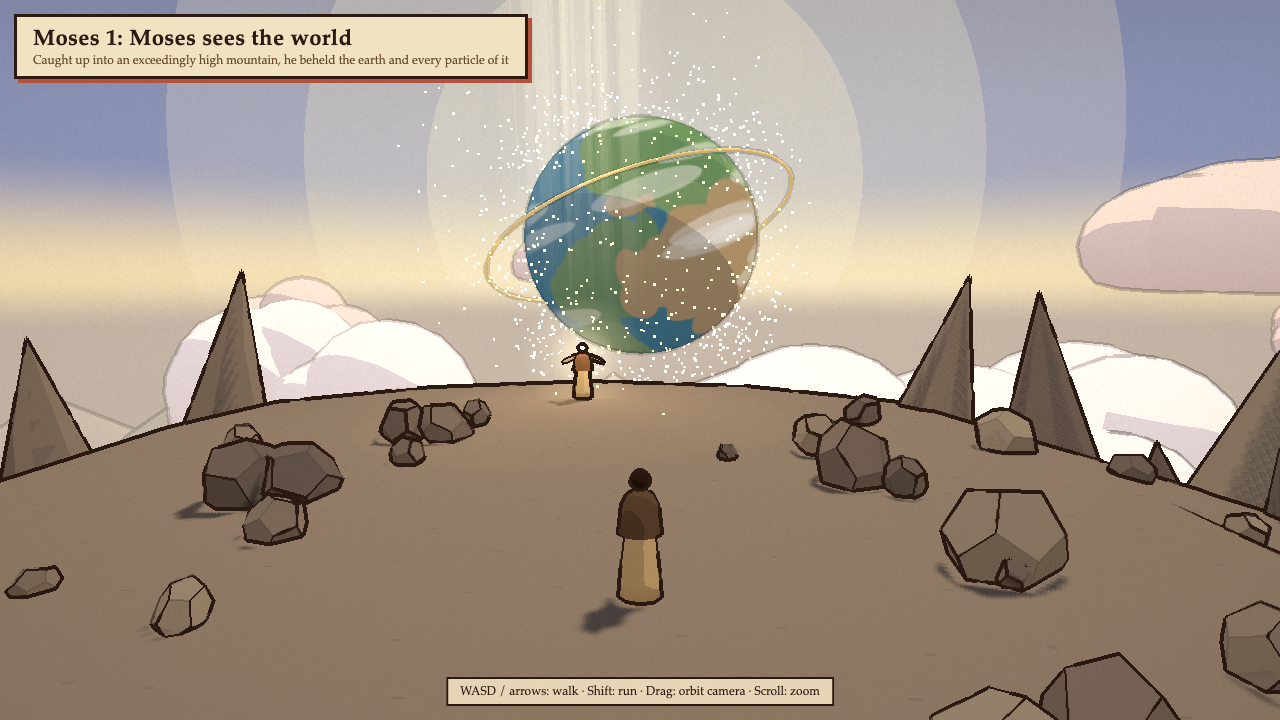
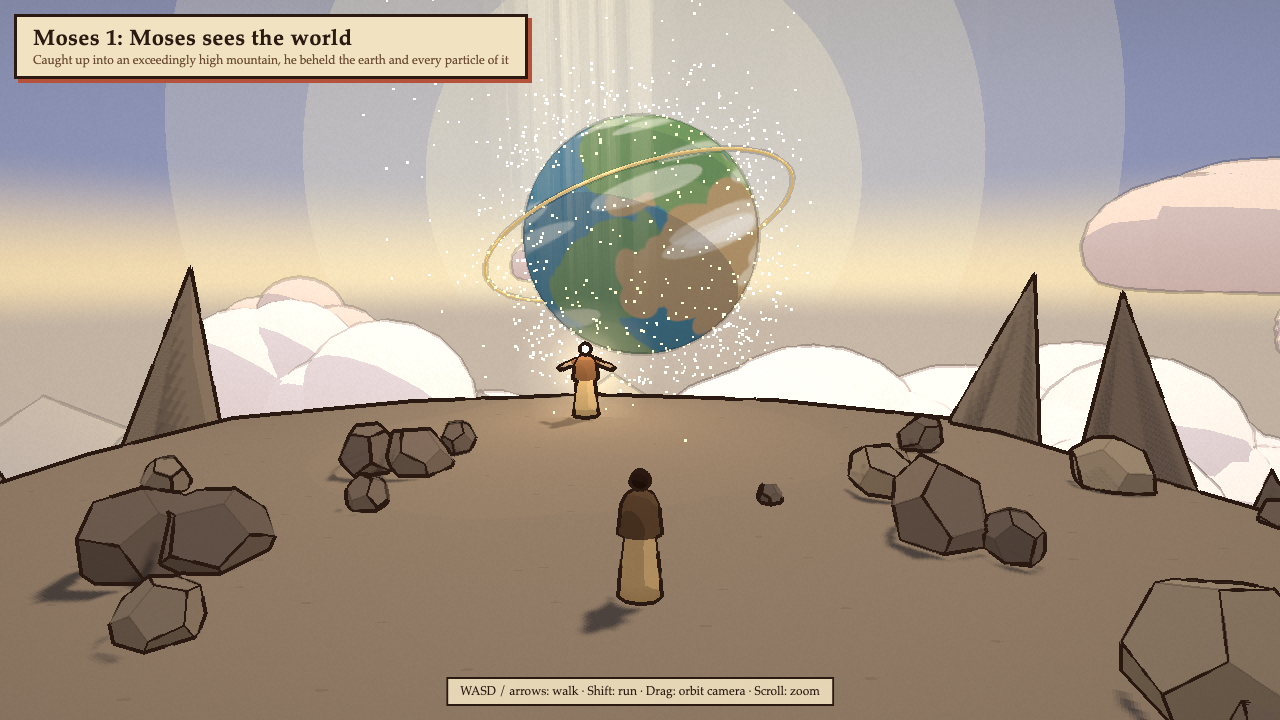
feat: polish toon scenes pgp-01 to pgp-06

diff --git a/styles/toon/scenes/pgp-06.js b/styles/toon/scenes/pgp-06.js
@@ -5,7 +5,7 @@ import { BASE_STYLE, DIVINE, between, figure, glow, makeRng, motes, stars } from
 const SEAT = [0, -34];
 const FATHER = [-1.4, -36];
 const SON = [1.4, -35.4];
-const ABRAHAM = [-3, -16.5];
+const ABRAHAM = [-3.4, -25.6];
 
 const SPIRITS = {
   robes: ['#fbf7ee', '#f3eddf', '#efe6f4', '#e8eef8', '#f6eedc', '#eef4ee', '#f8f0e8'],
@@ -20,22 +20,22 @@ export default {
   subtitle: 'Among all these there were many of the noble and great ones',
   seed: 106,
 
-  style: { ...BASE_STYLE, ink: '#3a3050', fog: { color: '#cbbcd8', near: 120, far: 700 } },
+  style: { ...BASE_STYLE, ink: '#3a3050', fog: { color: '#5a5a98', near: 90, far: 520 } },
 
   sky: {
     zenith: '#1a1e4a',
     mid: '#38387a',
-    horizon: '#c8a8c0',
-    ground: '#efe6f4',
-    glowColor: '#f8dcb0',
+    horizon: '#6a5a9a',
+    ground: '#4a4a88',
+    glowColor: '#c8a0a8',
     glowDir: [0, 0.35, -1],
   },
 
   sun: {
     dir: [0.2, 0.9, 0.4],
     color: '#fff6e8',
-    intensity: 2.2,
-    hemi: { sky: '#e8e4ff', ground: '#e8d8c8', intensity: 1.4 },
+    intensity: 1.6,
+    hemi: { sky: '#b8b8ff', ground: '#8878b0', intensity: 1.0 },
     shadowSize: 70,
   },
 
@@ -47,15 +47,15 @@ export default {
     undulation: 0.5,
     plaza: { center: [0, -34], size: [26, 26] },
     colors: {
-      sand: '#dcd4ec',
-      dirt: '#d4cce6',
-      grass: '#e4dcec',
-      grassDark: '#e0d8ec',
+      sand: '#8a86c4',
+      dirt: '#827ebc',
+      grass: '#8e8ac8',
+      grassDark: '#8682c0',
       plaza: '#fff8e8',
       plazaLine: '#f0e2c4',
       scorch: '#3a2a22',
       scorchEdge: '#6e4630',
-      hill: '#dcd4ec',
+      hill: '#7a76b8',
     },
   },
 
@@ -77,11 +77,13 @@ export default {
   custom(ctx) {
     stars(ctx, { count: 1600, size: 2, minY: 0.12, seed: 21 });
     stars(ctx, { count: 200, size: 3.2, minY: 0.2, color: '#fff2c8', seed: 6 });
-    figure(ctx, DIVINE, FATHER, { facing: [0, 20], scale: 1.3, glow: 0.55, clear: 1.2 });
-    figure(ctx, { ...DIVINE, arms: [0.35, 0.5] }, SON, { facing: [0, 20], scale: 1.22, glow: 0.5, clear: 1.2 });
+    figure(ctx, DIVINE, FATHER, { facing: [0, 20], scale: 1.55, glow: 0.6, clear: 1.2 });
+    figure(ctx, { ...DIVINE, arms: [0.35, 0.5] }, SON, { facing: [0, 20], scale: 1.45, glow: 0.55, clear: 1.2 });
     const y = ctx.groundHeight(...FATHER);
-    glow(ctx, [0, y + 1.6, -35.6], 12, '#ffd890', 0.9);
-    glow(ctx, [0, y + 2.2, -35.6], 30, '#ffc870', 0.45, 0.02);
+    glow(ctx, [FATHER[0], y + 2.9, FATHER[1] - 0.4], 6, '#fff2c8', 0.9);
+    glow(ctx, [SON[0], y + 2.7, SON[1] - 0.4], 6, '#fff2c8', 0.9);
+    glow(ctx, [0, y + 1.6, -36.4], 9, '#ffc870', 0.7);
+    glow(ctx, [0, y + 2.4, -36.6], 26, '#ffb860', 0.3, 0.02);
     figure(ctx, { robe: '#f6eedc', mantle: '#e8d6a8', skin: '#e0ccb8', hair: '#f3eddf', sash: '#c8a860' }, ABRAHAM, { facing: SEAT, scale: 1.02, glow: 0.2, clear: 0.9 });
 
     const rng = makeRng(9);
@@ -96,14 +98,14 @@ export default {
   clouds: {
     puffs: [5, 9],
     layers: [
-      { count: 50, center: SEAT, distance: [95, 170], height: [-7, -3], size: [9, 16], color: '#fbf7ff', shade: '#b8acd8', drift: 0.002 },
-      { count: 40, center: SEAT, distance: [300, 600], height: [-30, -10], size: [40, 70], color: '#fff6ea', shade: '#a89cc8', drift: -0.001 },
+      { count: 50, center: SEAT, distance: [95, 170], height: [-7, -3], size: [9, 16], color: '#c8c4f0', shade: '#5a5098', drift: 0.002 },
+      { count: 40, center: SEAT, distance: [300, 600], height: [-30, -10], size: [40, 70], color: '#a8a4e0', shade: '#4a4488', drift: -0.001 },
       { count: 20, center: SEAT, distance: [30, 70], height: [70, 110], size: [20, 34], color: '#fffaf0', shade: '#a8a0c8', drift: 0.004 },
     ],
   },
 
   light: {
-    beams: [{ from: [0, 220, -35.6], to: { at: SEAT, lift: 2.4 }, width: [22, 8], color: '#fff2c9', intensity: 0.2, layers: 3, stripes: 28, fadeLow: 0.04 }],
+    beams: [{ from: [0, 220, -35.6], to: { at: SEAT, lift: 2.4 }, width: [22, 8], color: '#fff2c9', intensity: 0.12, layers: 3, stripes: 28, fadeLow: 0.04 }],
     rayFans: [{ source: [0, 260, -40], sourceJitter: 60, target: [0, -10], groundY: 0, spread: [10, 50], count: 9, width: [[4, 8], [8, 14]], color: '#fff0c4', intensity: 0.14, stripes: 9, fadeLow: 0.3 }],
     rings: [{ at: SEAT, lift: 2.4, radius: 4.2, width: 0.3, height: 3, color: '#ffe0a0', intensity: 0.7, wallIntensity: 0.35 }],
     pointLights: [{ at: SEAT, lift: 3, color: '#fff0c8', intensity: 16, distance: 26 }],
@@ -123,7 +125,7 @@ export default {
   },
 
   player: {
-    start: [1.2, -11],
+    start: [0.6, -24],
     lookAt: SEAT,
     colors: { robe: '#fbf7ee', mantle: '#e8dcc0', skin: '#e0ccb8', hair: '#d8ccb8', sash: '#c8a860' },
   },

diff --git a/styles/toon/scenes/pgp-02.js b/styles/toon/scenes/pgp-02.js
@@ -149,10 +149,10 @@ export default {
     const fire = [];
     for (let i = 0; i < 6; i++) fire.push({ x: ALTAR[0] + (i / 5 - 0.5) * 2, y: top, z: ALTAR[1] + (i % 2 ? 0.45 : -0.45), h: 0.9, r: 0.8 });
     flames(ctx, fire);
-    smokeColumn(ctx, [ALTAR[0], top + 1, ALTAR[1]], { count: 14, rise: 18, size: 0.6, drift: [5, -2] });
+    smokeColumn(ctx, [ALTAR[0], top + 1, ALTAR[1]], { count: 34, rise: 14, size: 0.85, drift: [5, -2] });
     glow(ctx, [ALTAR[0], top + 0.4, ALTAR[1]], 5, '#ffb050', 0.5);
 
-    angel(ctx, ANGEL, { facing: ADAM, scale: 1.2, glowSize: 6, arms: [0.3, 0.6] });
+    angel(ctx, ANGEL, { facing: ADAM, scale: 1.35, glowSize: 6, arms: [0.3, 0.6] });
     family(ctx);
     hut(ctx);
     field(ctx);
@@ -174,7 +174,7 @@ export default {
 
 
   player: {
-    start: [3.5, 3],
+    start: [2.2, 1.4],
     lookAt: [-2.5, -9],
     colors: { robe: '#c8a97a', mantle: '#5e4632', skin: '#a8724a', hair: '#2b1a12', sash: '#b5523b' },
   },

diff --git a/styles/toon/scenes/pgp-05.js b/styles/toon/scenes/pgp-05.js
@@ -130,7 +130,7 @@ export default {
     hill(ctx);
     camp(ctx);
 
-    figure(ctx, { robe: '#e6d8b8', mantle: '#6b4a33', skin: '#a8724a', hair: '#d8d0c4', sash: '#8c5a3c', arms: [0.35, 1.25] }, ABRAHAM, { facing: [0, -400], scale: 1.05 });
+    figure(ctx, { robe: '#e6d8b8', mantle: '#6b4a33', skin: '#a8724a', hair: '#d8d0c4', sash: '#8c5a3c', arms: [0.35, 1.25] }, ABRAHAM, { facing: [0, -400], scale: 1.2 });
     const y = ctx.terrainHeight(...ABRAHAM);
     for (const side of [-1, 1]) {
       glow(ctx, [ABRAHAM[0] + side * 0.3, y + 1.8, ABRAHAM[1] - 0.4], 1.4, '#c8f0ff', 0.95, 0.12);
@@ -144,7 +144,7 @@ export default {
   },
 
   player: {
-    start: [2, 1.5],
+    start: [2.6, -1.2],
     lookAt: [0, -400],
     colors: { robe: '#c8a97a', mantle: '#5e4632', skin: '#a8724a', hair: '#2b1a12', sash: '#b5523b' },
   },

diff --git a/styles/toon/scenes/pgp-01.js b/styles/toon/scenes/pgp-01.js
@@ -160,7 +160,7 @@ export default {
     summit(ctx);
     lowlands(ctx);
     visionEarth(ctx);
-    figure(ctx, { robe: '#b8a07a', mantle: '#6b4a33', skin: '#a8724a', hair: '#e8e2d6', sash: '#8c5a3c', arms: [0.9, 0.9] }, MOSES, { facing: [EARTH[0], EARTH[2]], scale: 1.05 });
+    figure(ctx, { robe: '#b8a07a', mantle: '#6b4a33', skin: '#a8724a', hair: '#e8e2d6', sash: '#8c5a3c', arms: [0.9, 0.9] }, MOSES, { facing: [EARTH[0], EARTH[2]], scale: 1.2 });
     glow(ctx, [MOSES[0], 1.6, MOSES[1]], 4, '#fff0c0', 0.45);
     const rng = makeRng(3);
     const pts = [];
@@ -188,7 +188,7 @@ export default {
   },
 
   player: {
-    start: [2, 5],
+    start: [1.6, 1.6],
     lookAt: [0, -330],
     colors: { robe: '#c8a97a', mantle: '#5e4632', skin: '#a8724a', hair: '#2b1a12', sash: '#b5523b' },
   },

diff --git a/styles/toon/scenes/pgp-04.js b/styles/toon/scenes/pgp-04.js
@@ -140,7 +140,7 @@ export default {
     const y = lionCouch(ctx);
     idols(ctx, y);
     priests(ctx);
-    angel(ctx, [ALTAR[0] - 0.8, ALTAR[1] + 0.2], { facing: [0, 20], scale: 1.25, lift: 3.6, glowSize: 8, arms: [0.6, 0.7] });
+    angel(ctx, [ALTAR[0] - 0.6, ALTAR[1] + 0.4], { facing: [0, 20], scale: 1.6, lift: 2.6, glowSize: 8, arms: [0.6, 0.7] });
     palms(ctx, [[-30, -4, 9], [-36, 10, 8], [-26, 22, 10], [32, -6, 9], [38, 12, 8], [28, 26, 10], [-50, -40, 11], [52, -36, 10], [-60, 30, 9], [64, 28, 9], [-20, -60, 9], [24, -64, 10]]);
   },
 
@@ -176,7 +176,7 @@ export default {
   },
 
   player: {
-    start: [0, 5],
+    start: [0, -6.5],
     lookAt: ALTAR,
     colors: { robe: '#c8a97a', mantle: '#5e4632', skin: '#a8724a', hair: '#2b1a12', sash: '#b5523b' },
   },
